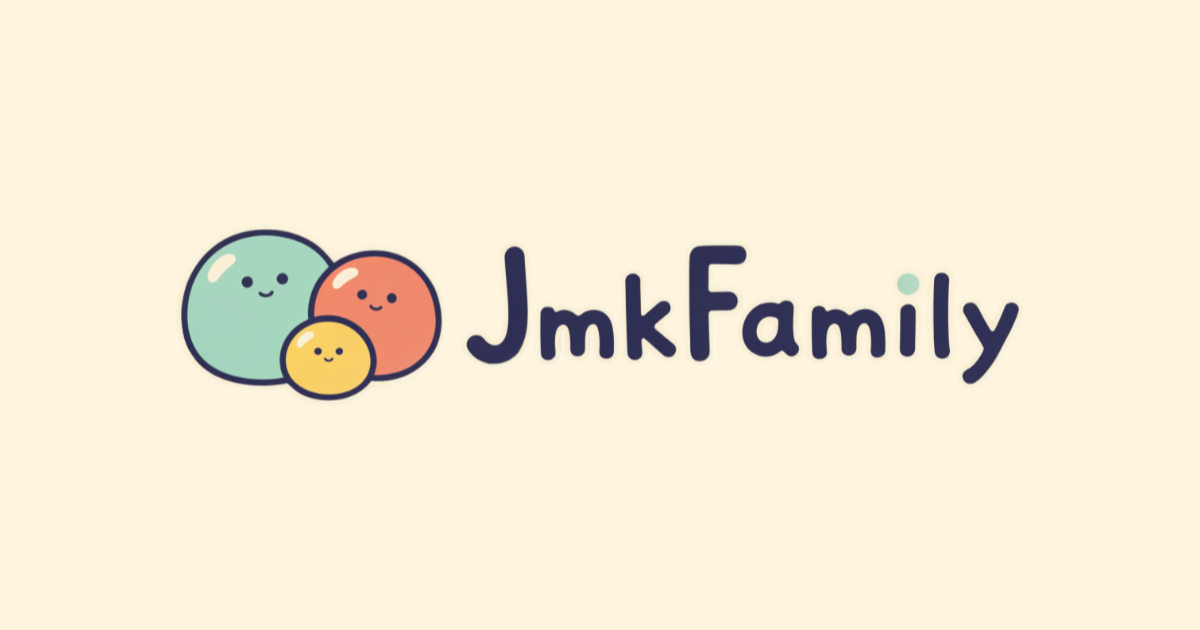
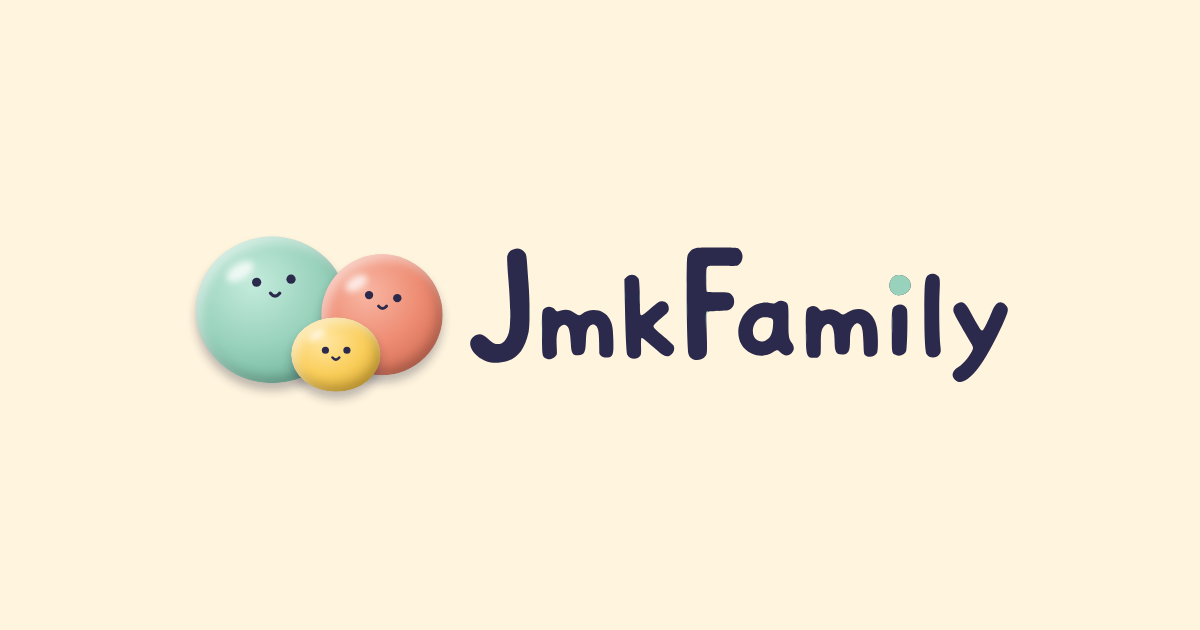
brand: 클레이모피즘 로고로 교체, 다크 히어로 받침 제거

Changed region(s): [[0.1233, 0.3619, 0.8633, 0.6333], [0.5858, 0.3619, 0.6475, 0.4222], [0.4008, 0.3921, 0.4317, 0.4222]]

diff --git a/assets/css/site.css b/assets/css/site.css
@@ -250,12 +250,7 @@ html:not([data-lang="en"]) body:not(.is-bilingual) [data-l="en"] { display: none
 .hero--compact .hero__title { font-size: var(--t-h1); line-height: 1.12; letter-spacing: -.025em; }
 .hero--compact .hero__in { padding-top: 64px; padding-bottom: 64px; }
 .hero .visual { width: 100%; max-width: 560px; }
-.hero__mark { display: block; width: 88px; height: 88px; margin: 0 auto var(--sp-5); flex: none; }
-/* 어두운 테마: 남색 외곽이 바탕에 묻히므로 --c-tint 원을 받침으로(지름 = 심볼 + 32px, 크기 고정) */
-@media (prefers-color-scheme: dark) {
-  :root:not([data-theme="light"]) .hero__mark { box-sizing: content-box; padding: var(--sp-4); border-radius: 50%; background: var(--c-tint); }
-}
-:root[data-theme="dark"] .hero__mark { box-sizing: content-box; padding: var(--sp-4); border-radius: 50%; background: var(--c-tint); }
+.hero__mark { display: block; width: 104px; height: 104px; margin: 0 auto var(--sp-5); flex: none; }
 /* 히어로 밖(피처드 구역 카드 아래 버튼 줄) */
 .section .hero__cta { margin-top: var(--sp-6); }
 /* 카드가 1장뿐인 목록(홈 피처드)은 너무 넓어지지 않게 */
@@ -270,7 +265,7 @@ html:not([data-lang="en"]) body:not(.is-bilingual) [data-l="en"] { display: none
   .hero--compact .hero__in { padding-top: 88px; padding-bottom: 88px; }
 }
 @media (min-width: 900px) {
-  .hero__mark { width: 112px; height: 112px; }
+  .hero__mark { width: 136px; height: 136px; }
   .hero__in { padding-top: 140px; padding-bottom: 140px; }
   .hero--compact .hero__in { padding-top: 104px; padding-bottom: 104px; }
   .hero--has-visual .hero__in { grid-template-columns: 1fr 1fr; align-items: center; justify-items: stretch; gap: var(--sp-8); text-align: left; padding-top: 96px; padding-bottom: 96px; }

diff --git a/index.html b/index.html
@@ -61,7 +61,7 @@
 <section class="hero">
   <div class="wrap hero__in">
     <div class="hero__copy">
-      <img class="hero__mark" src="/assets/brand/jmkfamily-symbol.svg" alt="" width="112" height="112">
+      <img class="hero__mark" src="/assets/brand/jmkfamily-symbol.svg" alt="" width="136" height="136">
       <p class="hero__tag">JmkFamily</p>
       <h1 class="hero__title"><span lang="ko" data-l="ko">우리가 재미있는<br>게임을 만듭니다.</span><span lang="en" data-l="en">We make<br>fun games.</span></h1>
       <p class="hero__lead"><span lang="ko" data-l="ko">JmkFamily는 게임을 만드는 개인 개발자입니다. 만드는 중인 게임도 웹에 먼저 올려 바로 해 볼 수 있게 합니다.</span><span lang="en" data-l="en">JmkFamily is a solo game developer. Games go on the web first, so you can play them while they are still being made.</span></p>
